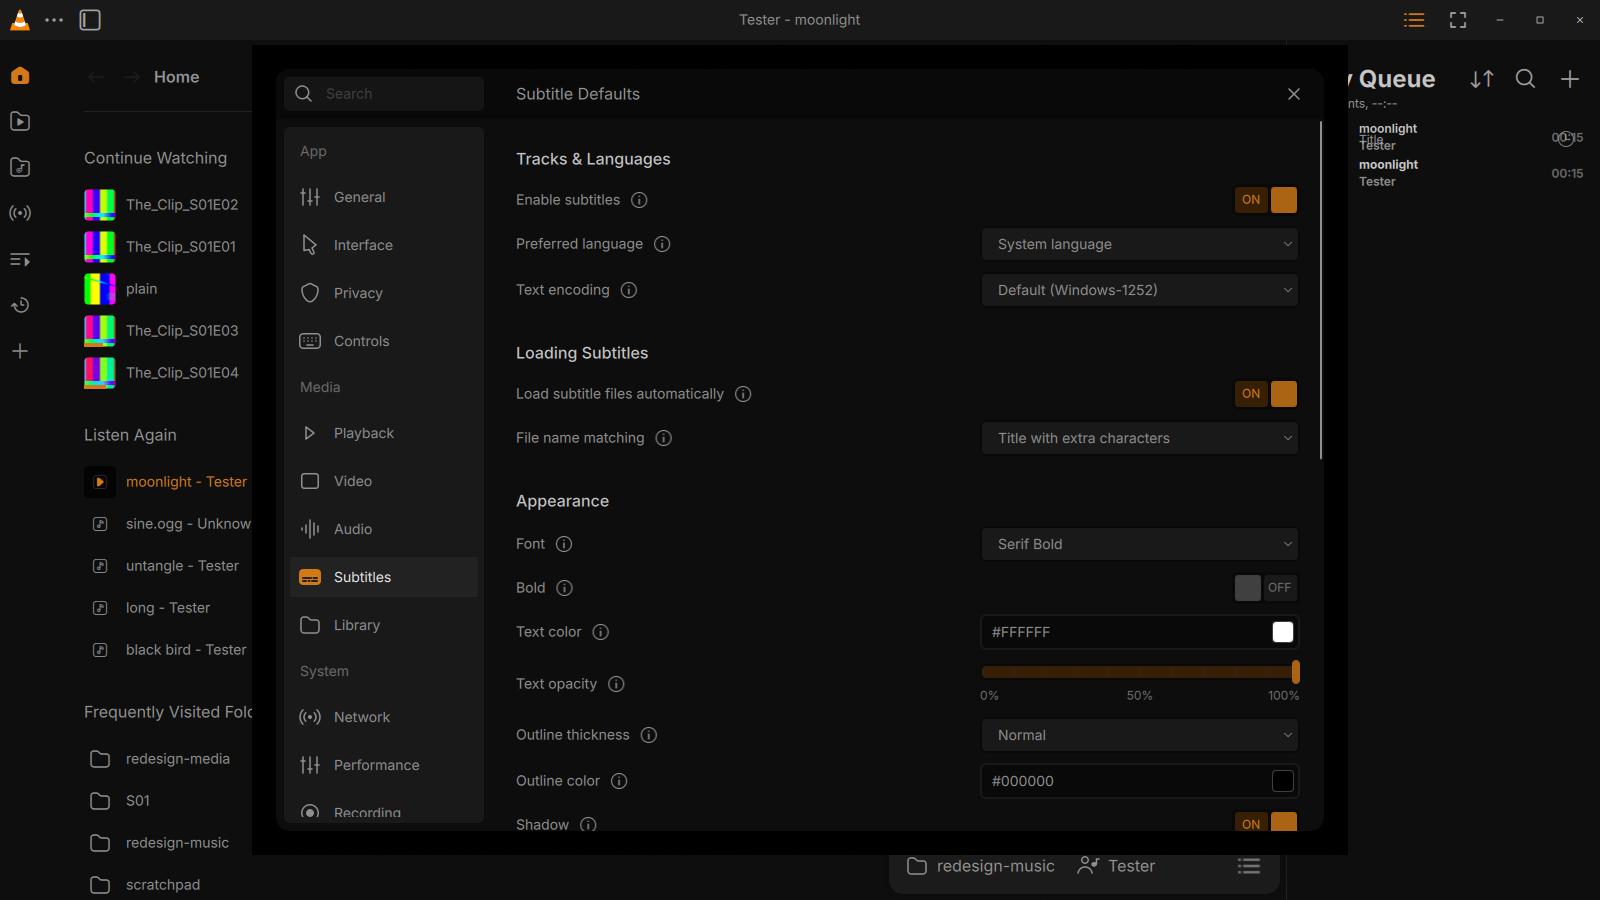
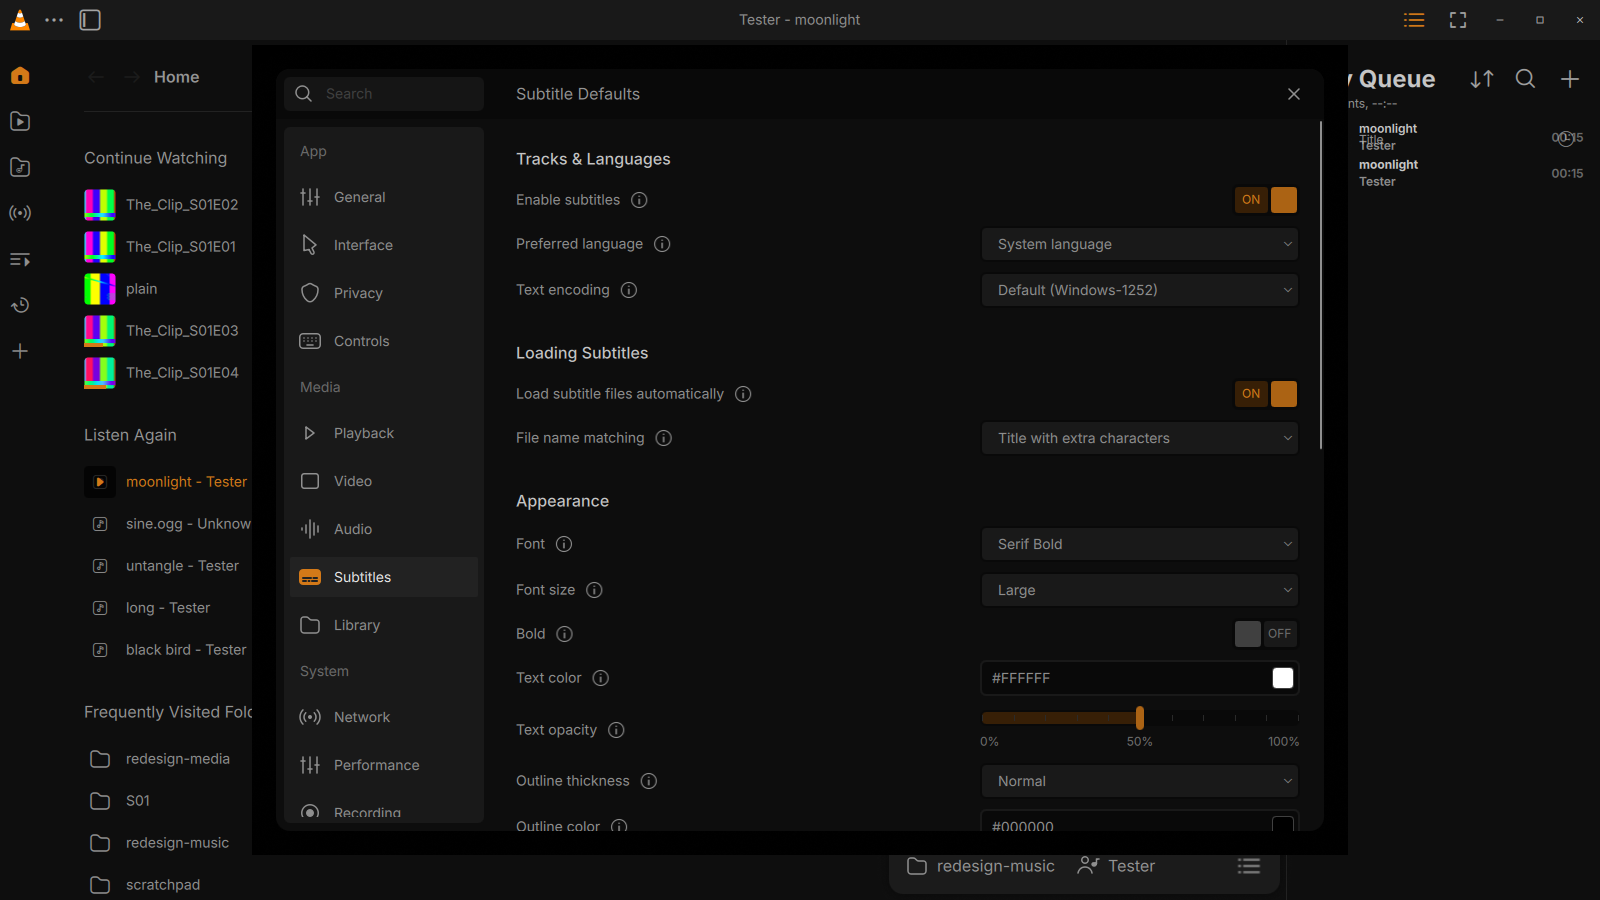
qt: settings Font size on sub-text-scale, opacity sliders sit on their step

diff --git a/modules/gui/qt/dialogs/settings/qml/SettingsRowDelegate.qml b/modules/gui/qt/dialogs/settings/qml/SettingsRowDelegate.qml
@@ -37,7 +37,7 @@ FocusScope {
     property int reloadTick: 0
 
     readonly property int rev: SettingsBridge.revision + reloadTick
-    readonly property bool shown: SettingsData.rowShown(row, SettingsBridge) && (row.kind !== "custom" || (_custom !== null && (!_customItem || _customItem.available !== false)))
+    readonly property bool shown: SettingsData.rowShown(row, SettingsBridge) && (row.kind !== "custom" || _custom !== null)
     // the option's current value (undefined for rows without one)
     readonly property var value: {
         void(rev)
@@ -71,7 +71,7 @@ FocusScope {
     // A custom row (`component: "ThemeRow.qml"`, a file in rows/, served flat next to this file) declares
     // `required property var row`; optionally `property Item delegate` (set to this delegate: rev, value, style,
     // choiceList) and `readonly property bool fullRow: true` (it draws the whole row, label included, instead of
-    // the 320 px control column), and `available: false` to hide (its options are missing). Its implicitHeight sets
+    // the 320 px control column). Its implicitHeight sets
     // the row's. A missing file only means the custom row isn't written yet: the row hides, with no warning.
     function _component(file) {
         const c = Qt.createComponent(file)
@@ -446,8 +446,11 @@ FocusScope {
                     const v = root.value
                     if (v === undefined)
                         return from
-                    if (!parent.stops)
-                        return v / (root.row.scale || 1)
+                    if (!parent.stops) {
+                        const u = v / (root.row.scale || 1)
+                        // an int option stores the scaled value rounded (128 for 50 %): sit on the step
+                        return root.row.scale && step > 0 ? from + Math.round((u - from) / step) * step : u
+                    }
                     // the nearest stop
                     let best = 0
                     for (let i = 1; i < root.choiceList.length; ++i)

diff --git a/modules/gui/qt/dialogs/settings/qml/SettingsData.js b/modules/gui/qt/dialogs/settings/qml/SettingsData.js
@@ -307,10 +307,10 @@ var pages = [
         ] },
         { title: qsTr("Appearance"), rows: [
             { label: qsTr("Font"), kind: "dropdown", option: "freetype-font", choicesFrom: "fonts" },
-            // freetype-fontsize and -rel-fontsize are obsolete in VLC 4 (the check script rejects them), so FontSizeRows
-            // names them itself and hides while they are missing
-            { label: qsTr("Font size"), kind: "custom", component: "FontSizeRows.qml",
-              keywords: qsTr("Size values Relative Pixels") },
+            // "Size values" is not built: VLC 4 has only a relative size (the freetype size options are obsolete)
+            { label: qsTr("Font size"), kind: "dropdown", option: "sub-text-scale",
+              choices: [ { value: 100, label: qsTr("Automatic") }, { value: 75, label: qsTr("Small") }, { value: 125, label: qsTr("Large") },
+                         { value: 150, label: qsTr("Larger") }, { value: 200, label: qsTr("Largest") } ] },
             { label: qsTr("Bold"), kind: "toggle", option: "freetype-bold" },
             { label: qsTr("Text color"), kind: "color", option: "freetype-color" },
             { label: qsTr("Text opacity"), kind: "slider", option: "freetype-opacity", min: 0, max: 100, step: 10, scale: 2.55,

diff --git a/docs/superpowers/specs/2026-10-25-vlc-redesign-settings-design.md b/docs/superpowers/specs/2026-10-25-vlc-redesign-settings-design.md
@@ -282,8 +282,8 @@ Rows are listed in Figma order. **Adv** = under Advanced Options. "—" = not bu
 | Load subtitle files automatically | toggle | `sub-autodetect-file` | |
 | File name matching | dropdown | `sub-autodetect-fuzzy` | |
 | Font | font-family dropdown | `freetype-font` | System families (`QFontDatabase`) |
-| Size values | segments Relative/Pixels | which of the next row's two options is used | Pixels when `freetype-fontsize` ≠ 0 |
-| Font size | dropdown (Relative) / field (Pixels) | `freetype-rel-fontsize` / `freetype-fontsize` | Switching to Relative writes `freetype-fontsize` = 0 |
+| Size values | — | — | VLC 4 has only a relative size. Not built |
+| Font size | dropdown Automatic/Small/Large/Larger/Largest | `sub-text-scale` 100 / 75 / 125 / 150 / 200 | Own list *(my call)* |
 | Bold | toggle | `freetype-bold` | |
 | Text color | colour field | `freetype-color` | 3c's `ColorField` |
 | Text opacity | slider 0–100 % | `freetype-opacity` (0–255) | |
